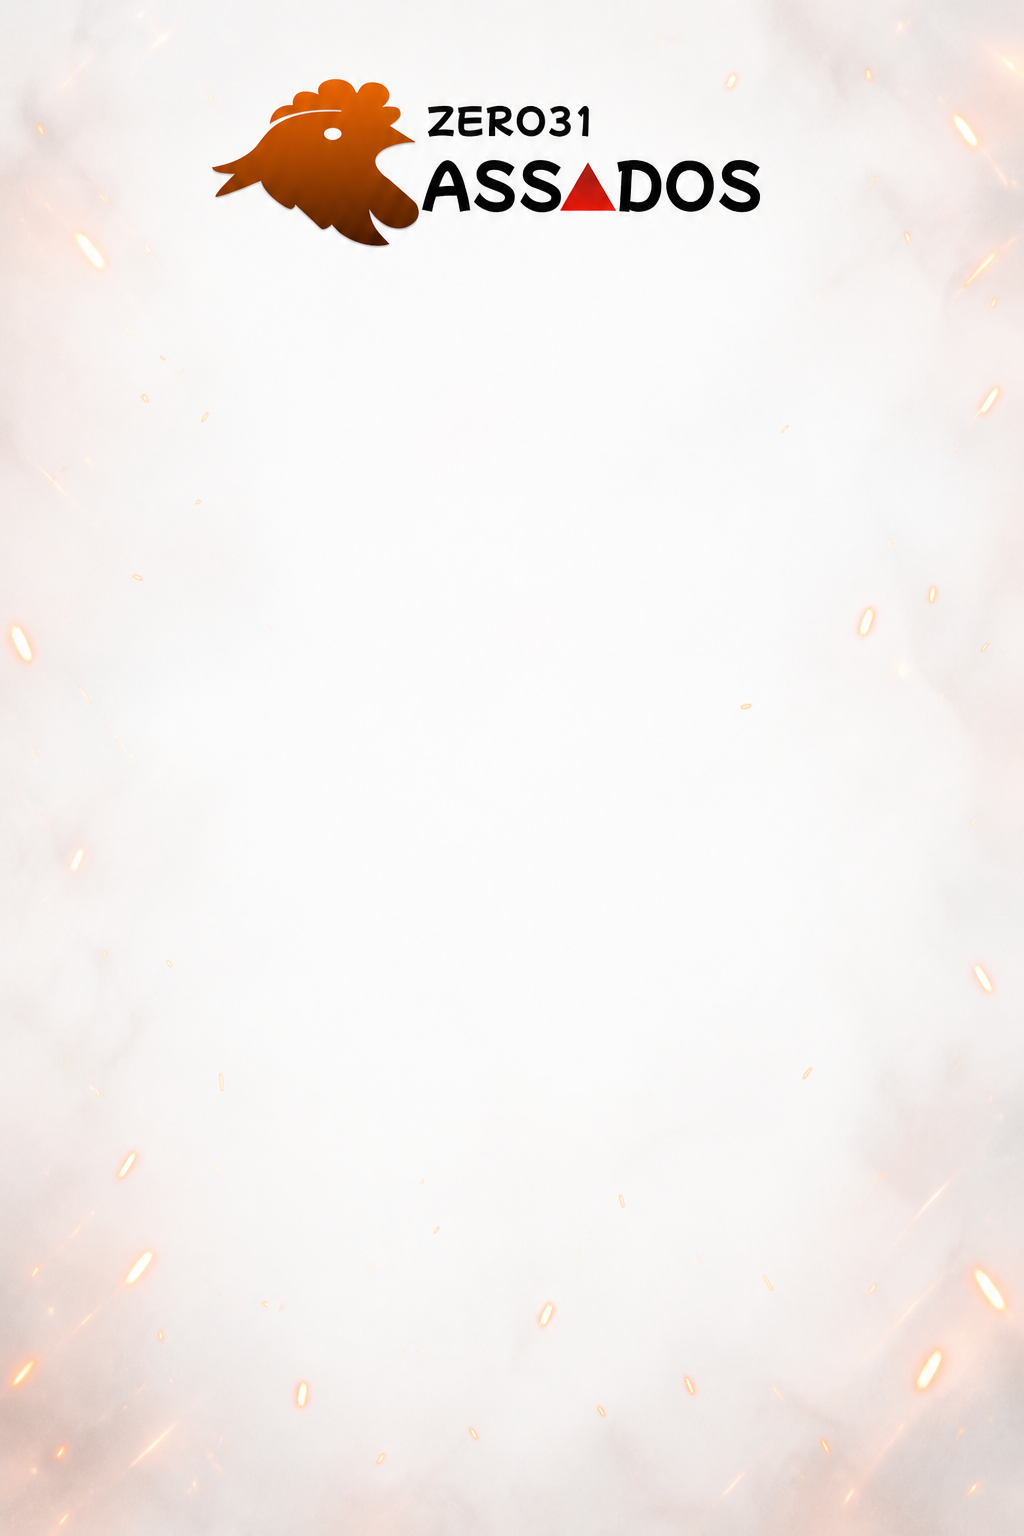
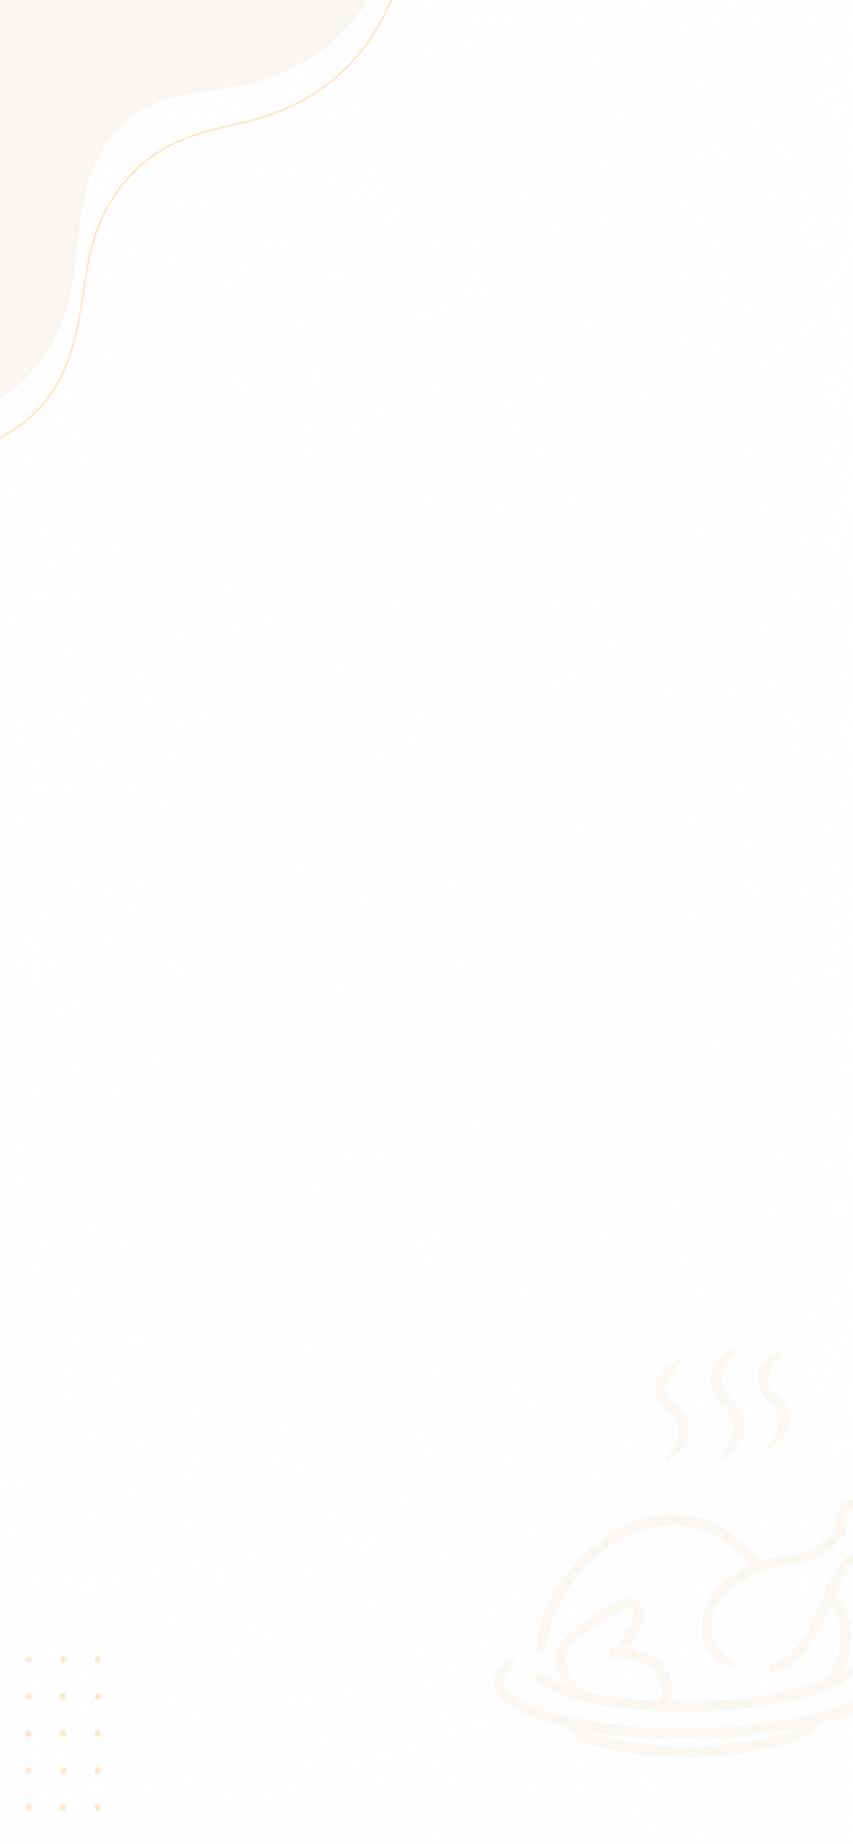
update

diff --git a/static/index.css b/static/index.css
@@ -1,4 +1,10 @@
 /* 🔥 Fundo com imagem */
+
+*{
+    box-sizing: border-box;
+}
+
+
 body {
     margin: 0;
     font-family: Arial, sans-serif;
@@ -14,7 +20,6 @@ body {
     justify-content: center;
     align-items: center;
     margin-top: 50px;
-    
 }
 
 .cont-inputs{
@@ -46,4 +51,15 @@ input, select, button {
     font-size: 16px;
     border-radius: 8px;
     border: 1px solid #ccc;
+}
+
+input[type="time"]{
+    height: 45px;
+    padding: 0 12px;
+    font-size: 16px;
+
+    -webkit-appearance: none;
+    appearance: none;
+
+    box-sizing: border-box;
 }